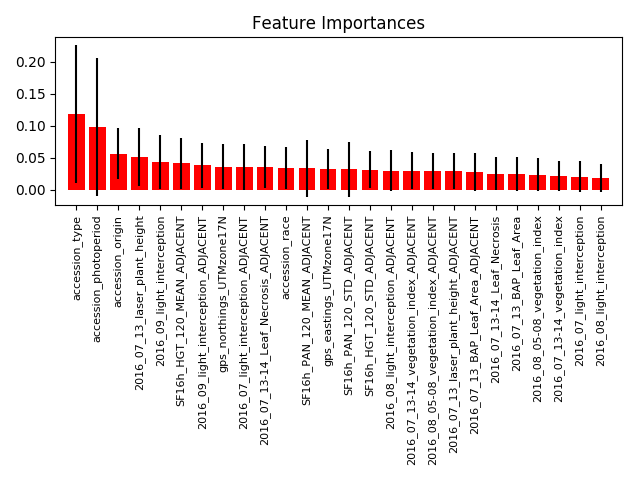
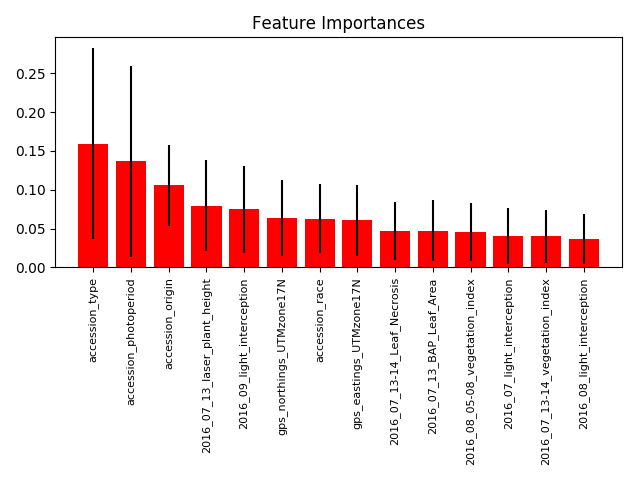
Disable adjacent.

Changed region(s): [[0.0, 0.125, 0.9688, 0.9688], [0.0312, 0.375, 0.0625, 0.4062]]

diff --git a/predict.py b/predict.py
@@ -149,9 +149,10 @@ def new2016Dataset(include_harvest=True):
     input_features_starts_with.append('SYNTHETIC_HARVEST_')
 
 
-  add_adjacent_features(samples, adjacent_augmented_labels)
-  input_labels = filter_2016_labels(tuple(input_features_starts_with)) + (
-                 [x + ADJACENT_LABEL_SUFFIX for x in adjacent_augmented_labels])
+  # TODO remove completely?
+  #add_adjacent_features(samples, adjacent_augmented_labels)
+  input_labels = filter_2016_labels(tuple(input_features_starts_with))# + (
+  #               [x + ADJACENT_LABEL_SUFFIX for x in adjacent_augmented_labels])
   output_labels = filter_2016_labels('COMPOSITION_')
 
   output_generators = collections.OrderedDict(sorted(
